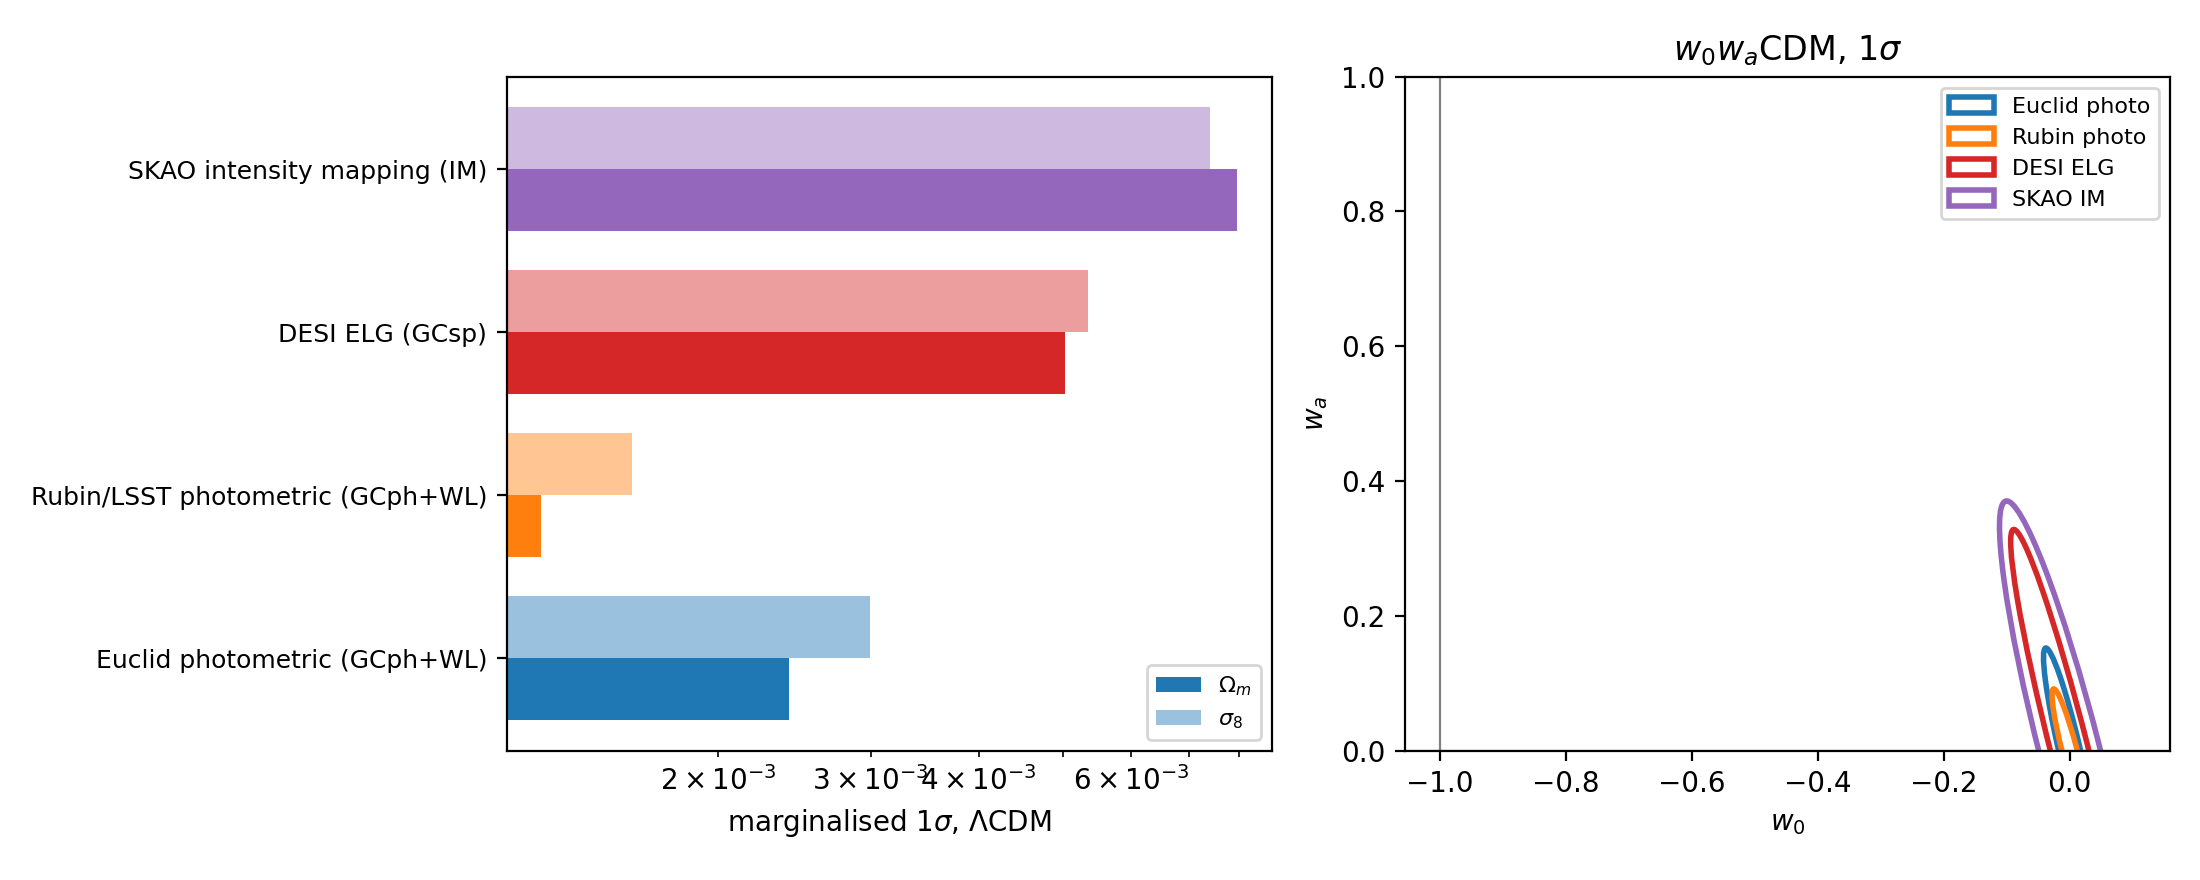
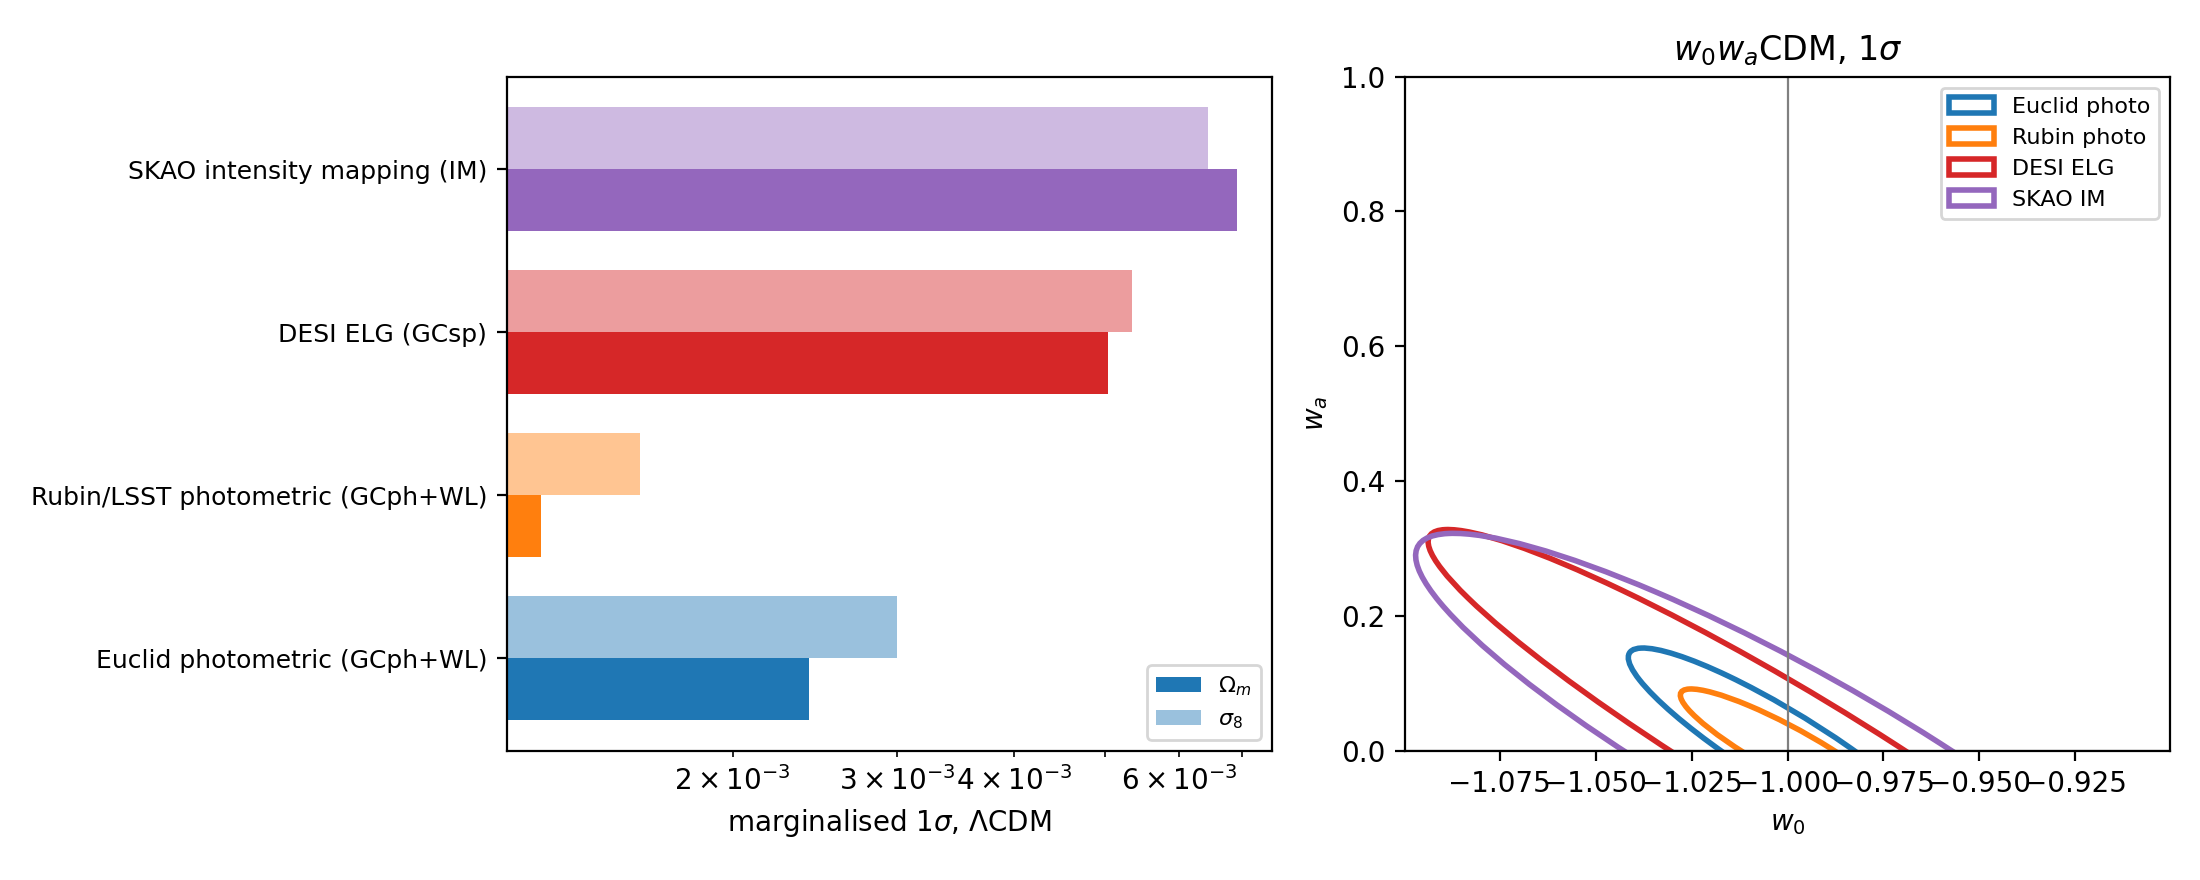
Paper: Address survey validation review: full Fisher combination, IM volume and claims
Paper-only cherry-pick of cec6b6a from feature/survey-validation (non-paper files left to the survey PR).

diff --git a/paper/scripts/fig4_survey_comparison.py b/paper/scripts/fig4_survey_comparison.py
@@ -58,15 +58,17 @@ def fisher_path(output_dir: Path, case: str) -> Path:
     return sorted((output_dir / "fishers").glob(pattern))[0]
 
 
-def draw_ellipse(axis, covariance: np.ndarray, colour: str, label: str) -> None:
-    """Draw the 1-sigma ellipse of a two-parameter covariance."""
+def draw_ellipse(
+    axis, covariance: np.ndarray, centre: tuple[float, float], colour: str, label: str
+) -> None:
+    """Draw the 1-sigma ellipse of a two-parameter covariance at the fiducial point."""
     eigenvalues, eigenvectors = np.linalg.eigh(covariance)
     order = np.argsort(eigenvalues)[::-1]
     eigenvalues = eigenvalues[order]
     eigenvectors = eigenvectors[:, order]
     angle = np.degrees(np.arctan2(eigenvectors[1, 0], eigenvectors[0, 0]))
     ellipse = Ellipse(
-        (0.0, 0.0),
+        centre,
         width=2.0 * np.sqrt(eigenvalues[0]),
         height=2.0 * np.sqrt(eigenvalues[1]),
         angle=angle,
@@ -109,7 +111,13 @@ def main() -> None:
         matrix = marginalise(
             fisher_matrix(file_name=str(fisher_path(output_dir, case))), ["w0", "wa"]
         )
-        draw_ellipse(right, np.linalg.inv(matrix.get_fisher_matrix()), colour, label)
+        draw_ellipse(
+            right,
+            np.linalg.inv(matrix.get_fisher_matrix()),
+            centre=(-1.0, 0.0),
+            colour=colour,
+            label=label,
+        )
     right.axhline(0.0, color="grey", linewidth=0.8)
     right.axvline(-1.0, color="grey", linewidth=0.8)
     right.set_xlabel(r"$w_0$")

diff --git a/paper/paper.md b/paper/paper.md
@@ -378,11 +378,15 @@ matrices take less or more time depending on that.
 **Cross-survey validation.** To check that the pipeline is not tied to Euclid, we
 transcribed the DESI, Rubin/LSST and SKAO specifications of @Casas2023SKAO into the
 current schema and compared the resulting observables---bin densities, biases, survey
-volumes, the galaxy, intensity-mapping and photometric spectra, the beam and the thermal
-noise---against an independent re-implementation of the historical recipes. Every
-ingredient agrees at machine precision. The only visible difference is the amplitude of
-the SKAO Fig. 1 spectra, which traces the modified-gravity fiducial used in the original
-runs and not the forecast code. Running all configurations on a common GR fiducial then
+volumes, the galaxy and intensity-mapping spectra, the beam, the thermal noise, and the
+photometric redshift distributions and bin counts---against an independent
+re-implementation of the historical recipes. All algebra-level ingredients agree at
+machine precision. The photometric angular spectra are not re-compared against the
+historical project here; they are covered by the existing observable tests. The residual
+shape difference in the SKAO Fig. 1 spectra is below 1.5 per cent over the calibrated
+range, with an amplitude offset consistent with (but not uniquely attributable to) the
+modified-gravity fiducial used in the original runs. Running all configurations on a
+common GR fiducial then
 produces a consistent set of constraints (\autoref{fig:surveys}). The ranking between
 surveys in that comparison reflects the adopted specifications---sky area, redshift
 binning and scale cuts---rather than the telescopes themselves, which is exactly the
